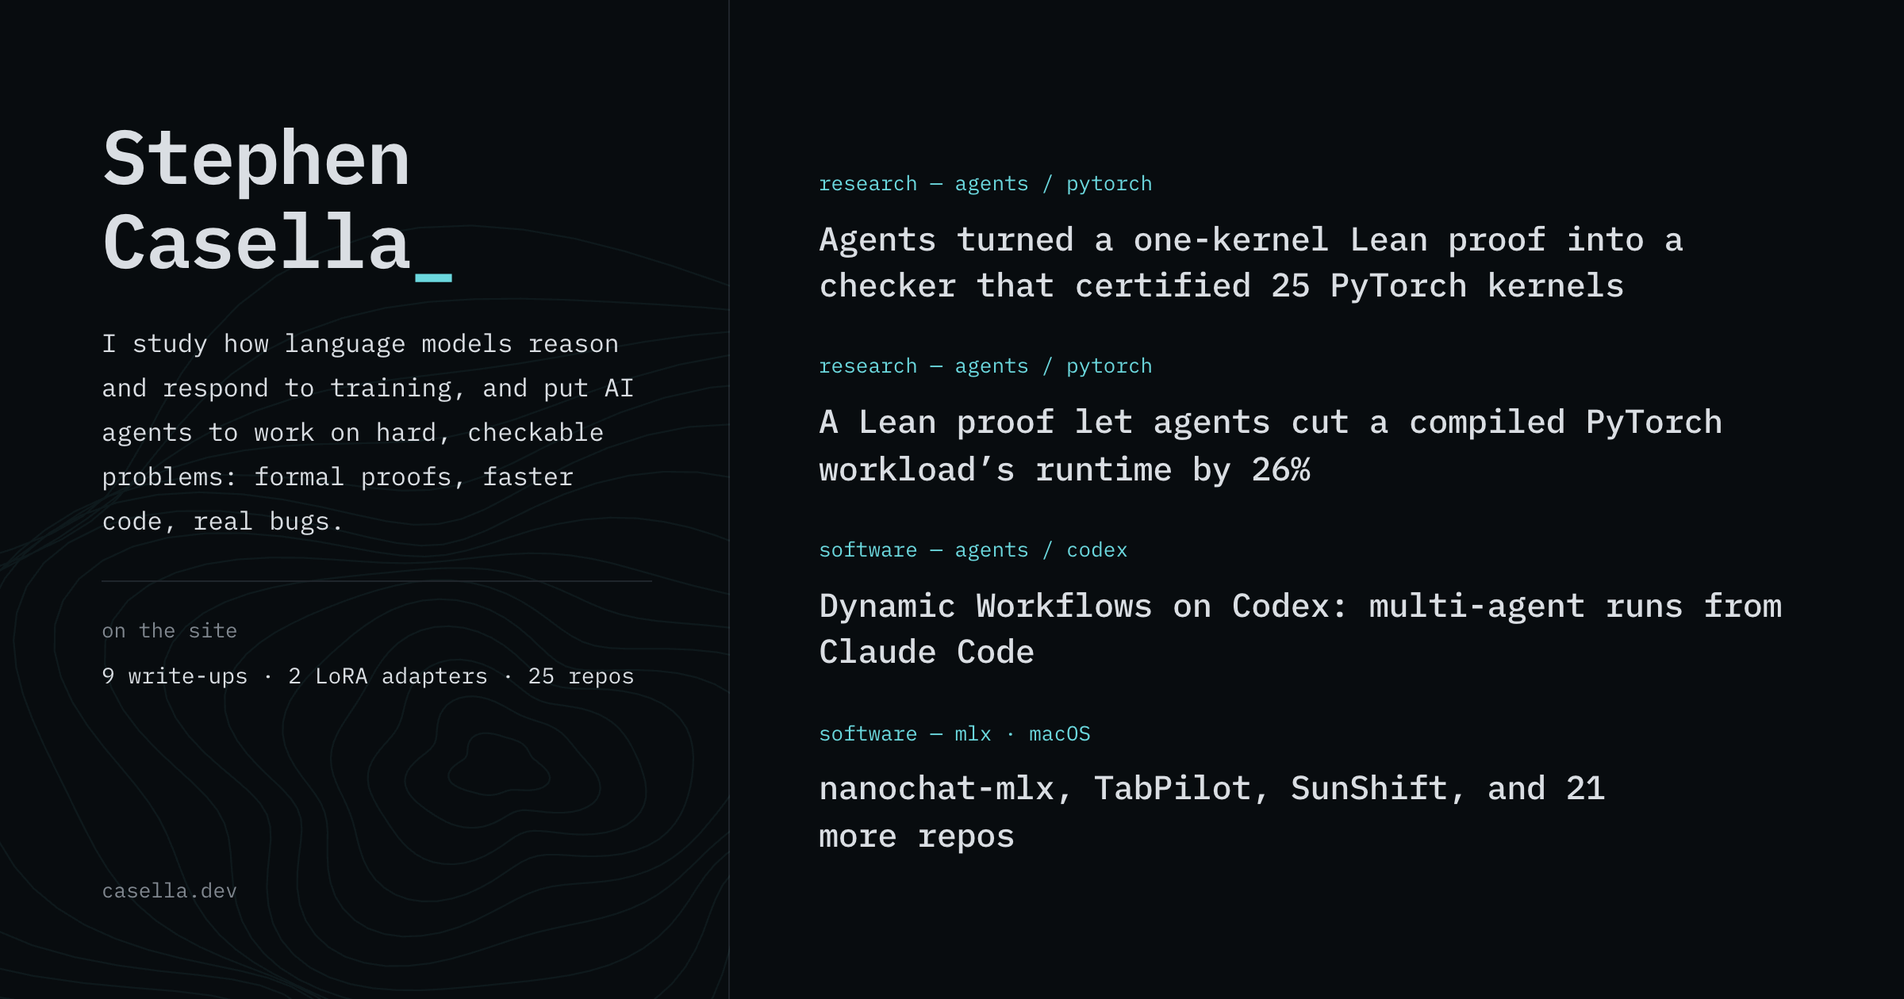
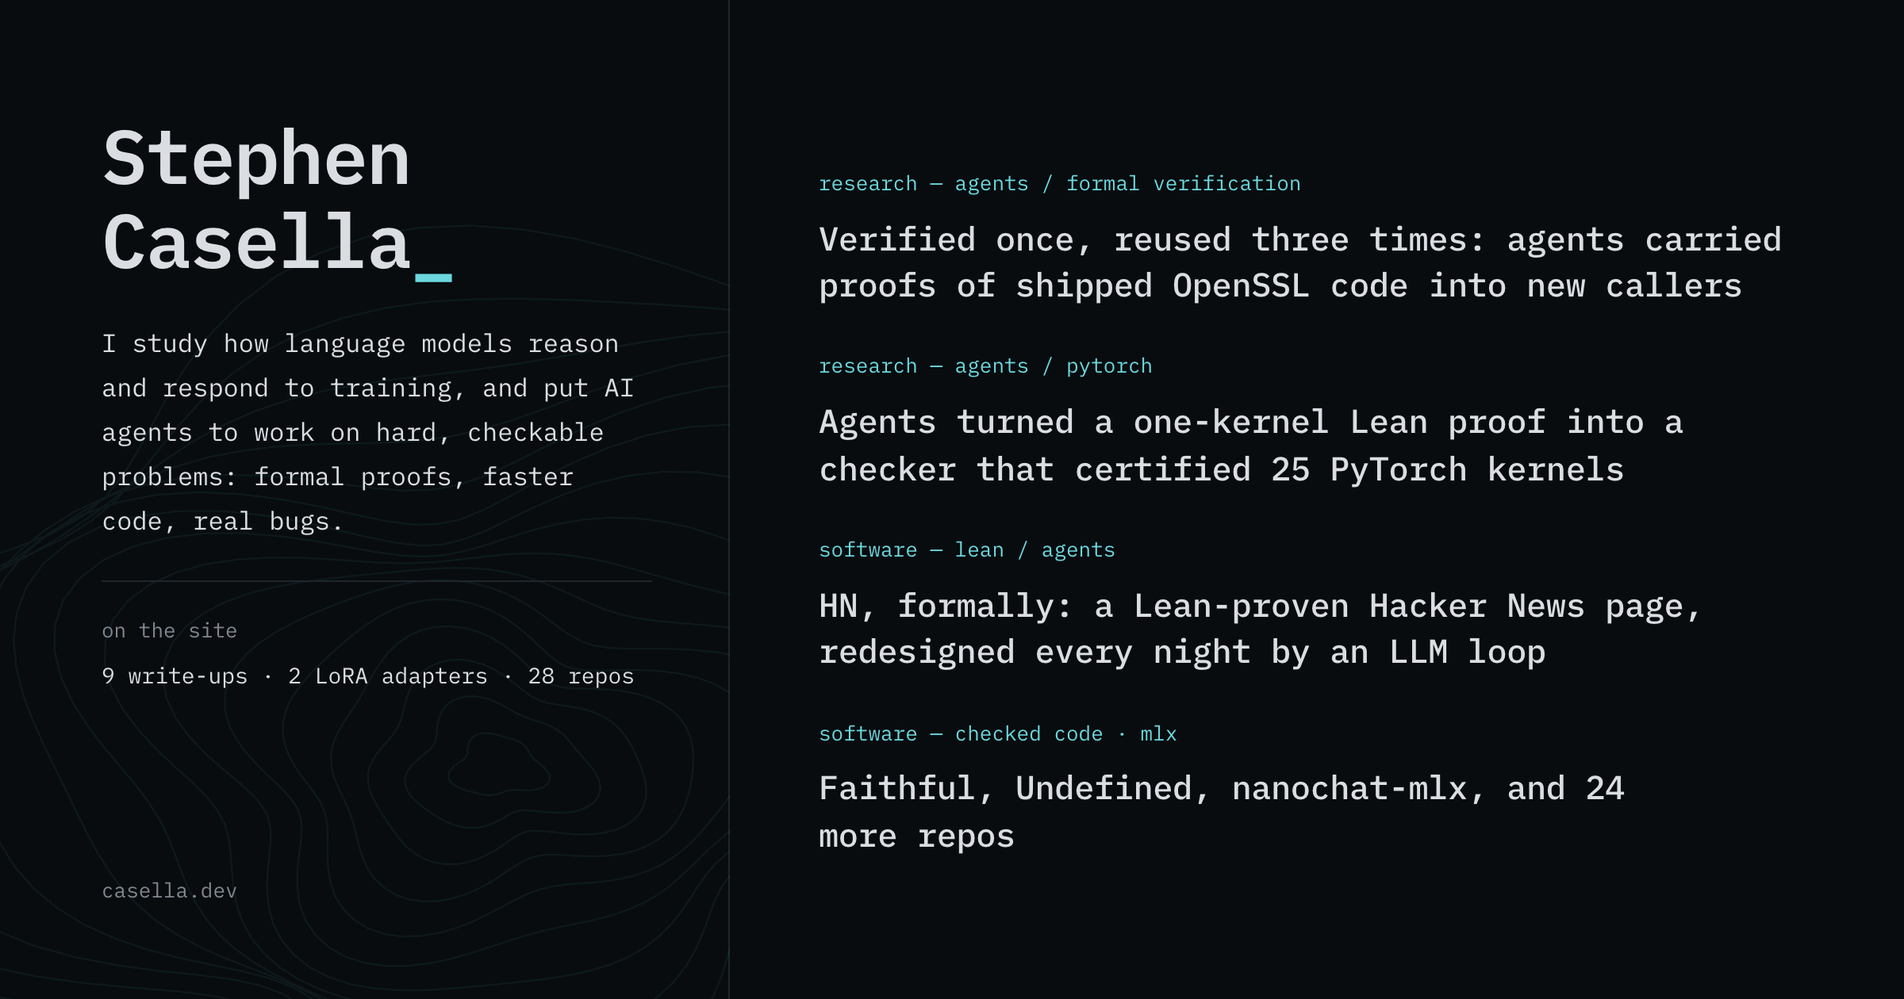
Deploy casella.dev from personal-site bc75f85

diff --git a/projects.html b/projects.html
@@ -5,7 +5,7 @@
     <meta charset="utf-8">
     <meta name="viewport" content="width=device-width, initial-scale=1, viewport-fit=cover">
     <title>Software | Stephen Casella</title>
-    <meta name="description" content="25 open-source repos by Stephen Casella: LLM research code, ML on Apple Silicon, agent tooling, and macOS menu bar utilities, with platform and dependency notes.">
+    <meta name="description" content="28 open-source repos by Stephen Casella: LLM research code, ML on Apple Silicon, agent tooling, and macOS menu bar utilities, with platform and dependency notes.">
     <meta name="author" content="Stephen Casella">
     <meta name="robots" content="index, follow">
     <meta name="theme-color" content="#080c0f">
@@ -13,7 +13,7 @@
     <meta property="og:site_name" content="Stephen Casella">
     <meta property="og:type" content="website">
     <meta property="og:title" content="~/software | Stephen Casella">
-    <meta property="og:description" content="25 repos: LLM research code, ML on Apple Silicon, agent tooling, and macOS utilities.">
+    <meta property="og:description" content="28 repos: LLM research code, ML on Apple Silicon, agent tooling, and macOS utilities.">
     <meta property="og:url" content="https://casella.dev/projects.html">
     <meta property="og:image" content="https://casella.dev/assets/og/home.png">
     <meta property="og:image:secure_url" content="https://casella.dev/assets/og/home.png">
@@ -22,7 +22,7 @@
     <meta property="og:image:alt" content="Stephen Casella's software, grouped by purpose">
     <meta name="twitter:card" content="summary_large_image">
     <meta name="twitter:title" content="~/software | Stephen Casella">
-    <meta name="twitter:description" content="25 repos: LLM research code, ML on Apple Silicon, agent tooling, and macOS utilities.">
+    <meta name="twitter:description" content="28 repos: LLM research code, ML on Apple Silicon, agent tooling, and macOS utilities.">
     <meta name="twitter:image" content="https://casella.dev/assets/og/home.png">
     <script async src="https://www.googletagmanager.com/gtag/js?id=G-2RSWDWW67D"></script>
     <script>
@@ -77,155 +77,173 @@
             },
             "mainEntity": {
               "@type": "ItemList",
-              "numberOfItems": 25,
+              "numberOfItems": 28,
               "itemListElement": [
                 {
                   "@type": "ListItem",
                   "position": 1,
+                  "name": "HN, formally",
+                  "url": "https://github.com/scasella/hn-formal"
+                },
+                {
+                  "@type": "ListItem",
+                  "position": 2,
+                  "name": "Faithful",
+                  "url": "https://github.com/scasella/faithful"
+                },
+                {
+                  "@type": "ListItem",
+                  "position": 3,
+                  "name": "Undefined",
+                  "url": "https://github.com/scasella/undefined"
+                },
+                {
+                  "@type": "ListItem",
+                  "position": 4,
                   "name": "Panel-style reasoning",
                   "url": "https://github.com/scasella/multi-model"
                 },
                 {
                   "@type": "ListItem",
-                  "position": 2,
+                  "position": 5,
                   "name": "Society of Thought",
                   "url": "https://github.com/scasella/society-of-thought-bench"
                 },
                 {
                   "@type": "ListItem",
-                  "position": 3,
+                  "position": 6,
                   "name": "Hypothesis Forge",
                   "url": "https://github.com/scasella/hypothesis_forge"
                 },
                 {
                   "@type": "ListItem",
-                  "position": 4,
+                  "position": 7,
                   "name": "autoresearch-evo",
                   "url": "https://github.com/scasella/autoresearch-evo"
                 },
                 {
                   "@type": "ListItem",
-                  "position": 5,
+                  "position": 8,
                   "name": "Claim-correctness probes / ProbeMon",
                   "url": "https://github.com/scasella/activation-probes-claim-correctness"
                 },
                 {
                   "@type": "ListItem",
-                  "position": 6,
+                  "position": 9,
                   "name": "Qwen Scope Lab",
                   "url": "https://github.com/scasella/qwen-scope-lab"
                 },
                 {
                   "@type": "ListItem",
-                  "position": 7,
+                  "position": 10,
                   "name": "Block-sparse steering",
                   "url": "https://github.com/scasella/bsf-steering"
                 },
                 {
                   "@type": "ListItem",
-                  "position": 8,
+                  "position": 11,
                   "name": "Proofgrade",
                   "url": "https://github.com/scasella/Proofgrade"
                 },
                 {
                   "@type": "ListItem",
-                  "position": 9,
+                  "position": 12,
                   "name": "Adaptive retrieval experiments",
                   "url": "https://github.com/scasella/adaptive_rag_rlm"
                 },
                 {
                   "@type": "ListItem",
-                  "position": 10,
+                  "position": 13,
                   "name": "nanochat-mlx",
                   "url": "https://github.com/scasella/nanochat-mlx"
                 },
                 {
                   "@type": "ListItem",
-                  "position": 11,
+                  "position": 14,
                   "name": "Gemma 4 on a 24GB MacBook",
                   "url": "https://github.com/scasella/gemma4-m4-pro"
                 },
                 {
                   "@type": "ListItem",
-                  "position": 12,
+                  "position": 15,
                   "name": "Gemma 4 Sudoku on MLX",
                   "url": "https://github.com/scasella/train-gemma4-sudoku-on-your-macbook"
                 },
                 {
                   "@type": "ListItem",
-                  "position": 13,
+                  "position": 16,
                   "name": "TTT-Discover on MLX",
                   "url": "https://github.com/scasella/ttt-discover-autoresearch-mlx"
                 },
                 {
                   "@type": "ListItem",
-                  "position": 14,
+                  "position": 17,
                   "name": "Dynamic Workflows on Codex",
                   "url": "https://github.com/scasella/claude-dynamic-workflows-codex"
                 },
                 {
                   "@type": "ListItem",
-                  "position": 15,
+                  "position": 18,
                   "name": "SunShift",
                   "url": "https://github.com/scasella/SunShift"
                 },
                 {
                   "@type": "ListItem",
-                  "position": 16,
+                  "position": 19,
                   "name": "TabPilot",
                   "url": "https://github.com/scasella/TabPilot"
                 },
                 {
                   "@type": "ListItem",
-                  "position": 17,
+                  "position": 20,
                   "name": "SafariMarkdown",
                   "url": "https://github.com/scasella/SafariMarkdown"
                 },
                 {
                   "@type": "ListItem",
-                  "position": 18,
+                  "position": 21,
                   "name": "GhostLabel",
                   "url": "https://github.com/scasella/GhostLabel"
                 },
                 {
                   "@type": "ListItem",
-                  "position": 19,
+                  "position": 22,
                   "name": "PasteForge",
                   "url": "https://github.com/scasella/PasteForge"
                 },
                 {
                   "@type": "ListItem",
-                  "position": 20,
+                  "position": 23,
                   "name": "TextDrop",
                   "url": "https://github.com/scasella/TextDrop"
                 },
                 {
                   "@type": "ListItem",
-                  "position": 21,
+                  "position": 24,
                   "name": "ClipDrop",
                   "url": "https://github.com/scasella/ClipDrop"
                 },
                 {
                   "@type": "ListItem",
-                  "position": 22,
+                  "position": 25,
                   "name": "DiskPulse",
                   "url": "https://github.com/scasella/DiskPulse"
                 },
                 {
                   "@type": "ListItem",
-                  "position": 23,
+                  "position": 26,
                   "name": "PortSentry",
                   "url": "https://github.com/scasella/PortSentry"
                 },
                 {
                   "@type": "ListItem",
-                  "position": 24,
+                  "position": 27,
                   "name": "ProcessBeacon",
                   "url": "https://github.com/scasella/ProcessBeacon"
                 },
                 {
                   "@type": "ListItem",
-                  "position": 25,
+                  "position": 28,
                   "name": "BrewPilot",
                   "url": "https://github.com/scasella/BrewPilot"
                 }
@@ -290,8 +308,16 @@
   <main class="flow proj-main">
     <div class="proj-head">
       <h1>~/software</h1>
-      <p>[ 25 repos ] platform · main dependency · install under each<span class="proj-head__hint"> // hover to preview</span></p>
+      <p>[ 28 repos ] platform · main dependency · install under each<span class="proj-head__hint"> // hover to preview</span></p>
     </div>
+    <section class="proj-group" id="checked" aria-labelledby="checked-label">
+      <h2 class="label" id="checked-label"><span>Machine-checked software</span><span class="label__aside">03</span></h2>
+        <ul class="proj-list">
+          <li><a href="https://github.com/scasella/hn-formal" rel="noopener" data-thumb="assets/readme-screenshots/hn-formal.png" data-tags="Nothing to install: hosted on GitHub Pages, refreshed every 15 minutes · Lean 4.34 and Node 22 to build · the loop runs claude-haiku-5-5 on GitHub Actions under spend caps"><span class="proj__name">HN, formally<span class="proj__repo">hn-formal</span></span><span class="proj__desc">The Hacker News front page and its 30 threads, rendered by a Lean 4 program proven to render every API input correctly, and redesigned every night by an LLM loop that releases without human review whenever a candidate passes. Structure, data fidelity and the no-injection property are proven; contrast, reflow and accessibility are checked per release in a browser and never called proven.<span class="proj__meta">Nothing to install: hosted on GitHub Pages, refreshed every 15 minutes · Lean 4.34 and Node 22 to build · the loop runs claude-haiku-5-5 on GitHub Actions under spend caps</span><span class="proj__meta proj__meta--note">The pages have no JavaScript and no external origins. The redesign loop sends the spec, the renderer, Lean’s errors and screenshots to an Anthropic-hosted model.</span><span class="proj__meta proj__meta--note">Unofficial and read-only; not affiliated with Y Combinator. Data from the HN Firebase API.</span></span></a></li>
+          <li><a href="https://github.com/scasella/faithful" rel="noopener" data-thumb="assets/readme-screenshots/faithful.png" data-tags="Node 22.12+ · pnpm · Codex CLI · Lean 4 and Mathlib (about 12 GB) for proofs · Z3 optional · install from source, 0.1.0"><span class="proj__name">Faithful<span class="proj__repo">faithful</span></span><span class="proj__desc">Make one TypeScript function faster and see exactly how much of “it still does the same thing” was checked. Each rewrite must compile, stay pure, match the original on generated inputs, survive a bounded Z3 search and benchmark faster; one that is significantly faster is then proved in Lean 4 against a spec agreed in plain words. Every result carries one of five labels. Early: the translator accepts 39 of 74 corpus functions and 0 of 20 sampled from real libraries; in the launch campaign, 3 of 130 candidate rewrites were accepted with a proof and 72 were faster but not proved.<span class="proj__meta">Node 22.12+ · pnpm · Codex CLI · Lean 4 and Mathlib (about 12 GB) for proofs · Z3 optional · install from source, 0.1.0</span><span class="proj__meta proj__meta--note">Model calls go through the Codex CLI to an OpenAI-hosted model, and the UI shows each prompt verbatim. The browser showcase replays recorded sessions and sends nothing.</span><span class="proj__meta proj__meta--note">A proof is about a Lean model of the function and the agreed spec, never the TypeScript on every input.</span></span></a></li>
+          <li><a href="https://github.com/scasella/undefined" rel="noopener" data-thumb="assets/readme-screenshots/undefined.png" data-tags="Nothing to install for the demo (recorded gpt-6-luna answers, live checks) · a local copy needs Node 20.19+ and the Codex CLI · install from source, 0.1.0"><span class="proj__name">Undefined<span class="proj__repo">undefined</span></span><span class="proj__desc">A live program that grows the functions you call but haven’t written. Bring a spreadsheet export and ask a question: a model drafts the calculation and the checks it must pass, asks what the question leaves open, and you approve the checks before anything counts. A strict TypeScript compiler, unit and property tests, and purity and time-limit gates then decide what is accepted, and only an answer that passes them all is shown; a mutation check reports which bugs those checks would miss. The same engine runs as a CLI and a GitHub Action that certify TypeScript from any source.<span class="proj__meta">Nothing to install for the demo (recorded gpt-6-luna answers, live checks) · a local copy needs Node 20.19+ and the Codex CLI · install from source, 0.1.0</span><span class="proj__meta proj__meta--note">In the demo, nothing about your program leaves the browser. Live mode sends each prompt through the Codex CLI to an OpenAI-hosted model: the signature, the doc, the names of your tests (never their bodies) and, if you share them, sample rows. Neither sandbox is a security boundary.</span></span></a></li>
+        </ul>
+    </section>
     <section class="proj-group" id="research_code" aria-labelledby="research_code-label">
       <h2 class="label" id="research_code-label"><span>Research code</span><span class="label__aside">09</span></h2>
         <ul class="proj-list">

diff --git a/index.html b/index.html
@@ -253,8 +253,37 @@
         </section>
 
         <section aria-labelledby="software">
-          <h2 class="label" id="software"><span>selected software</span><a class="label__aside" href="projects.html">all 25 →</a></h2>
+          <h2 class="label" id="software"><span>selected software</span><a class="label__aside" href="projects.html">all 28 →</a></h2>
           <ul class="feats">
+          <li class="feat">
+            <p class="feat__name"><a href="https://github.com/scasella/hn-formal">HN, formally</a></p>
+            <div class="feat__body">
+              <p class="feat__desc">The Hacker News front page and its 30 threads, rendered by a Lean 4 program proven to render every API input correctly, and redesigned every night by an LLM loop that releases without human review whenever a candidate passes. Structure, data fidelity and the no-injection property are proven; contrast, reflow and accessibility are checked per release in a browser and never called proven.</p>
+              <p class="feat__meta">Needs: Nothing to install: hosted on GitHub Pages, refreshed every 15 minutes · Lean 4.34 and Node 22 to build · the loop runs claude-haiku-5-5 on GitHub Actions under spend caps</p>
+              <p class="feat__meta">Sends: The pages have no JavaScript and no external origins. The redesign loop sends the spec, the renderer, Lean’s errors and screenshots to an Anthropic-hosted model.</p>
+              <p class="feat__meta">Unofficial and read-only; not affiliated with Y Combinator. Data from the HN Firebase API.</p>
+              <p class="feat__actions"><a href="https://scasella.github.io/hn-formal/">live site</a><span aria-hidden="true"> · </span><a href="https://scasella.github.io/hn-formal/loop/">every generation</a><span aria-hidden="true"> · </span><a href="https://github.com/scasella/hn-formal/releases/latest">latest release</a><span aria-hidden="true"> · </span><a href="https://github.com/scasella/hn-formal">source</a></p>
+            </div>
+          </li>
+          <li class="feat">
+            <p class="feat__name"><a href="https://github.com/scasella/faithful">Faithful</a></p>
+            <div class="feat__body">
+              <p class="feat__desc">Make one TypeScript function faster and see exactly how much of “it still does the same thing” was checked. Each rewrite must compile, stay pure, match the original on generated inputs, survive a bounded Z3 search and benchmark faster; one that is significantly faster is then proved in Lean 4 against a spec agreed in plain words. Every result carries one of five labels. Early: the translator accepts 39 of 74 corpus functions and 0 of 20 sampled from real libraries; in the launch campaign, 3 of 130 candidate rewrites were accepted with a proof and 72 were faster but not proved.</p>
+              <p class="feat__meta">Needs: Node 22.12+ · pnpm · Codex CLI · Lean 4 and Mathlib (about 12 GB) for proofs · Z3 optional · install from source, 0.1.0</p>
+              <p class="feat__meta">Sends: Model calls go through the Codex CLI to an OpenAI-hosted model, and the UI shows each prompt verbatim. The browser showcase replays recorded sessions and sends nothing.</p>
+              <p class="feat__meta">A proof is about a Lean model of the function and the agreed spec, never the TypeScript on every input.</p>
+              <p class="feat__actions"><a href="https://scasella.github.io/faithful/">try it in your browser</a><span aria-hidden="true"> · </span><a href="https://github.com/scasella/faithful/blob/main/docs/LAUNCH.md">launch report</a><span aria-hidden="true"> · </span><a href="https://github.com/scasella/faithful">source</a></p>
+            </div>
+          </li>
+          <li class="feat">
+            <p class="feat__name"><a href="https://github.com/scasella/undefined">Undefined</a></p>
+            <div class="feat__body">
+              <p class="feat__desc">A live program that grows the functions you call but haven’t written. Bring a spreadsheet export and ask a question: a model drafts the calculation and the checks it must pass, asks what the question leaves open, and you approve the checks before anything counts. A strict TypeScript compiler, unit and property tests, and purity and time-limit gates then decide what is accepted, and only an answer that passes them all is shown; a mutation check reports which bugs those checks would miss. The same engine runs as a CLI and a GitHub Action that certify TypeScript from any source.</p>
+              <p class="feat__meta">Needs: Nothing to install for the demo (recorded gpt-6-luna answers, live checks) · a local copy needs Node 20.19+ and the Codex CLI · install from source, 0.1.0</p>
+              <p class="feat__meta">Sends: In the demo, nothing about your program leaves the browser. Live mode sends each prompt through the Codex CLI to an OpenAI-hosted model: the signature, the doc, the names of your tests (never their bodies) and, if you share them, sample rows. Neither sandbox is a security boundary.</p>
+              <p class="feat__actions"><a href="https://scasella.github.io/undefined/#/zen">try it in your browser</a><span aria-hidden="true"> · </span><a href="https://github.com/scasella/undefined/blob/main/docs/EXAMPLES.md">how the checks are measured</a><span aria-hidden="true"> · </span><a href="https://github.com/scasella/undefined">source</a></p>
+            </div>
+          </li>
           <li class="feat">
             <p class="feat__name"><a href="https://github.com/scasella/claude-dynamic-workflows-codex">Dynamic Workflows on Codex</a></p>
             <div class="feat__body">
@@ -273,25 +302,6 @@
               <p class="feat__meta">Needs: Apple Silicon · MLX · uv, v0.2.0 release</p>
               <p class="feat__meta">An MLX port of Karpathy’s nanochat.</p>
               <p class="feat__actions"><a href="https://github.com/scasella/nanochat-mlx#quick-start">quick start</a><span aria-hidden="true"> · </span><a href="https://github.com/scasella/nanochat-mlx/releases/latest">release v0.2.0</a><span aria-hidden="true"> · </span><a href="https://github.com/scasella/nanochat-mlx">source</a></p>
-            </div>
-          </li>
-          <li class="feat">
-            <p class="feat__name"><a href="https://github.com/scasella/TabPilot">TabPilot</a></p>
-            <div class="feat__body">
-              <p class="feat__desc">Find duplicate and stale Safari tabs, search open pages, and group tabs by domain.</p>
-              <p class="feat__why">Why I built it: I had 80+ Safari tabs open and no way to make sense of them.</p>
-              <p class="feat__meta">Needs: macOS 14+ · Codex optional · Homebrew cask</p>
-              <p class="feat__meta">Sends: With optional AI grouping on, tab titles and URLs go through a Codex app server to an OpenAI-hosted model.</p>
-              <p class="feat__actions"><code>brew install --cask scasella/tap/tabpilot</code><span aria-hidden="true"> · </span><a href="https://github.com/scasella/TabPilot">source</a></p>
-            </div>
-          </li>
-          <li class="feat">
-            <p class="feat__name"><a href="https://github.com/scasella/SunShift">SunShift</a></p>
-            <div class="feat__body">
-              <p class="feat__desc">Adjust Night Shift warmth directly from the menu bar.</p>
-              <p class="feat__why">Why I built it: Night Shift warmth is one of the few display settings I actually want to tweak throughout the day, but Apple hides it behind too many clicks.</p>
-              <p class="feat__meta">Needs: macOS 26+ · uses a private macOS API · Homebrew cask</p>
-              <p class="feat__actions"><code>brew install --cask scasella/tap/sunshift</code><span aria-hidden="true"> · </span><a href="https://github.com/scasella/SunShift">source</a></p>
             </div>
           </li>
           </ul>
